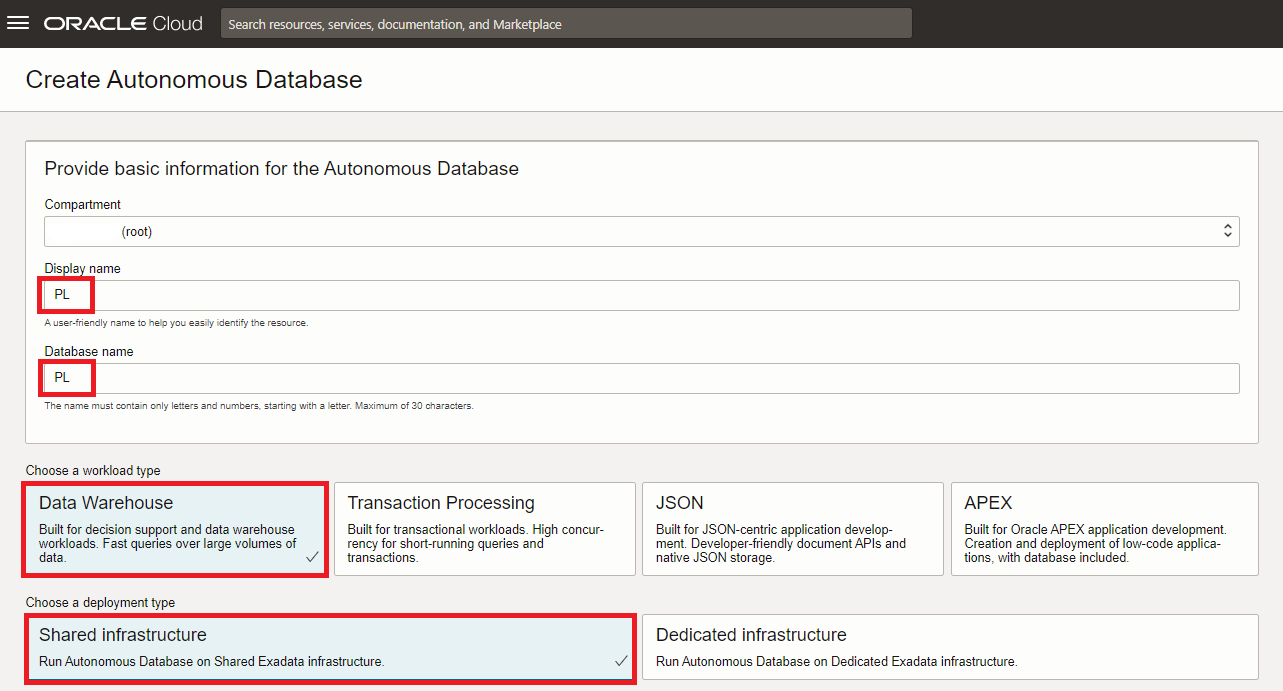
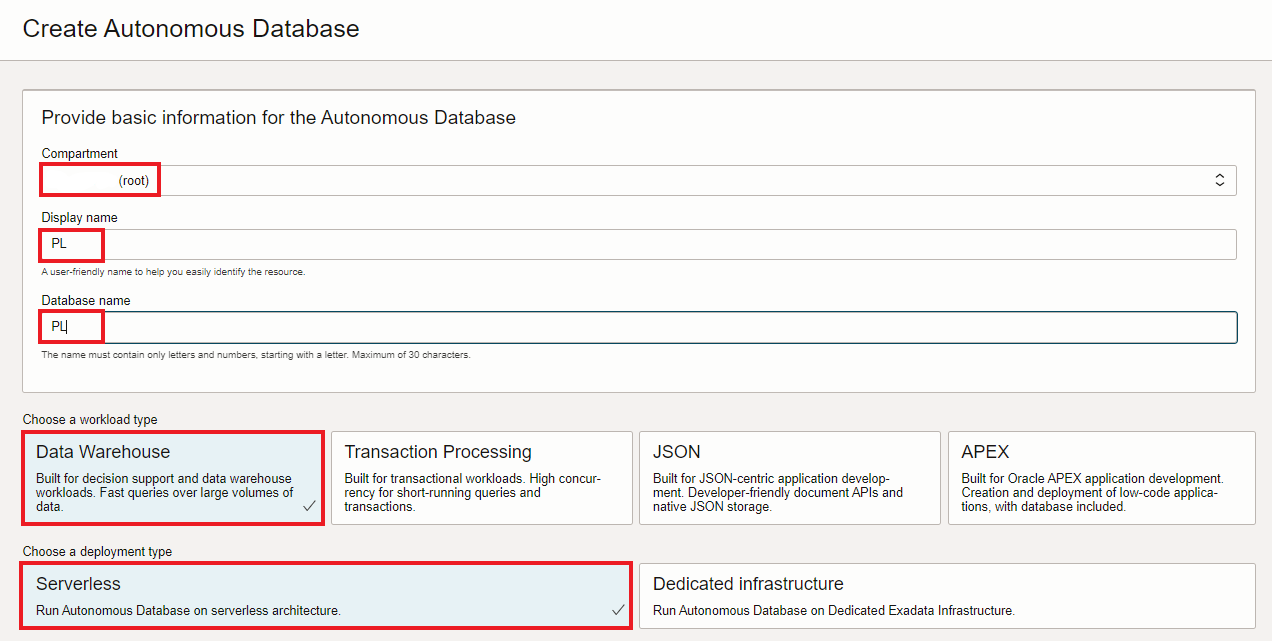
WMS ID: 11230 (#216)
* Update to adw

* Update to lab 3

* update to lab 3 text

* edit to name of adw menu file

* update to lab 4 images

* update to lab 4 menu

* update to lab 6 images

* update to lab 6 images  v2

* update to lab 6 -text and images - v3

* lab 6 edit-v4

* update lab 1

* update lab 2

* update lab 3

* update lab 4

* update lab 5

* update lab 6

* update text lab 6 v2

* update lab 6 v3

* update lab 7

* update lab 8

* recent updates

* update lab 2

* update lab 3

* update lab 4

* update lab 6

* update lab 1

update lab 1

* update images lab 2

* update images lab 3

* Update lab 4

* update lab 6

* update lab 6 -v2

* update lab 7

* updates lab 8

* update lab 9

* update lab 10

* update lab 10

* update lab 12

* update menu oac

* lab 4 update redwood images

* lab 1 update images mysql heatwave

* mysql heatwave lab 2 updated images

* mysqlheatwave lab 3 and 4 updated images

* wmd:6861 lab 1 images renaming

* wmd:6861 updated description names to images in labs 2 and 3

* wmd:6861 updated images names

* wmd:6861 updated image names

* WMS ID: 7001

updated image and text lab 2

* WMS ID: 8421

Lab 2 image and text updated

* WMS ID: 6861

Updated image and text errors

* WMS ID: 6861

Updated text errors

* WMS ID: 11230

Updated image and text lab 2 and 4

---------

diff --git a/premier-league-video-analysis/notebook/notebook.md b/premier-league-video-analysis/notebook/notebook.md
@@ -128,7 +128,7 @@ In order for OCI Data Science to be able to call the OCI Vision service, we need
     Execute the following in the terminal.
 
     ```
-    <copy>source activate /home/datascience/conda/computervision_p37_cpu_v1
+    <copy>source activate /home/datascience/conda/computervision_p37_gpu_v1
     pip install oci==2.75.1 pandas==1.1.5 oci-cli==3.11.1
     </copy>
     ```

diff --git a/premier-league-video-analysis/adw-provisioning/adw-provisioning.md b/premier-league-video-analysis/adw-provisioning/adw-provisioning.md
@@ -38,7 +38,7 @@ To complete this lab, you need to have the following:
       - Display name: `PL`
       - Database name: `PL`
       - Choose a workload type: `Data Warehouse`
-      - Choose a deployment type: `Shared Infrastructure`
+      - Choose a deployment type: `Serverless Infrastructure`
 
 4. Fill the next part of the provisioning form with the following values.
 
